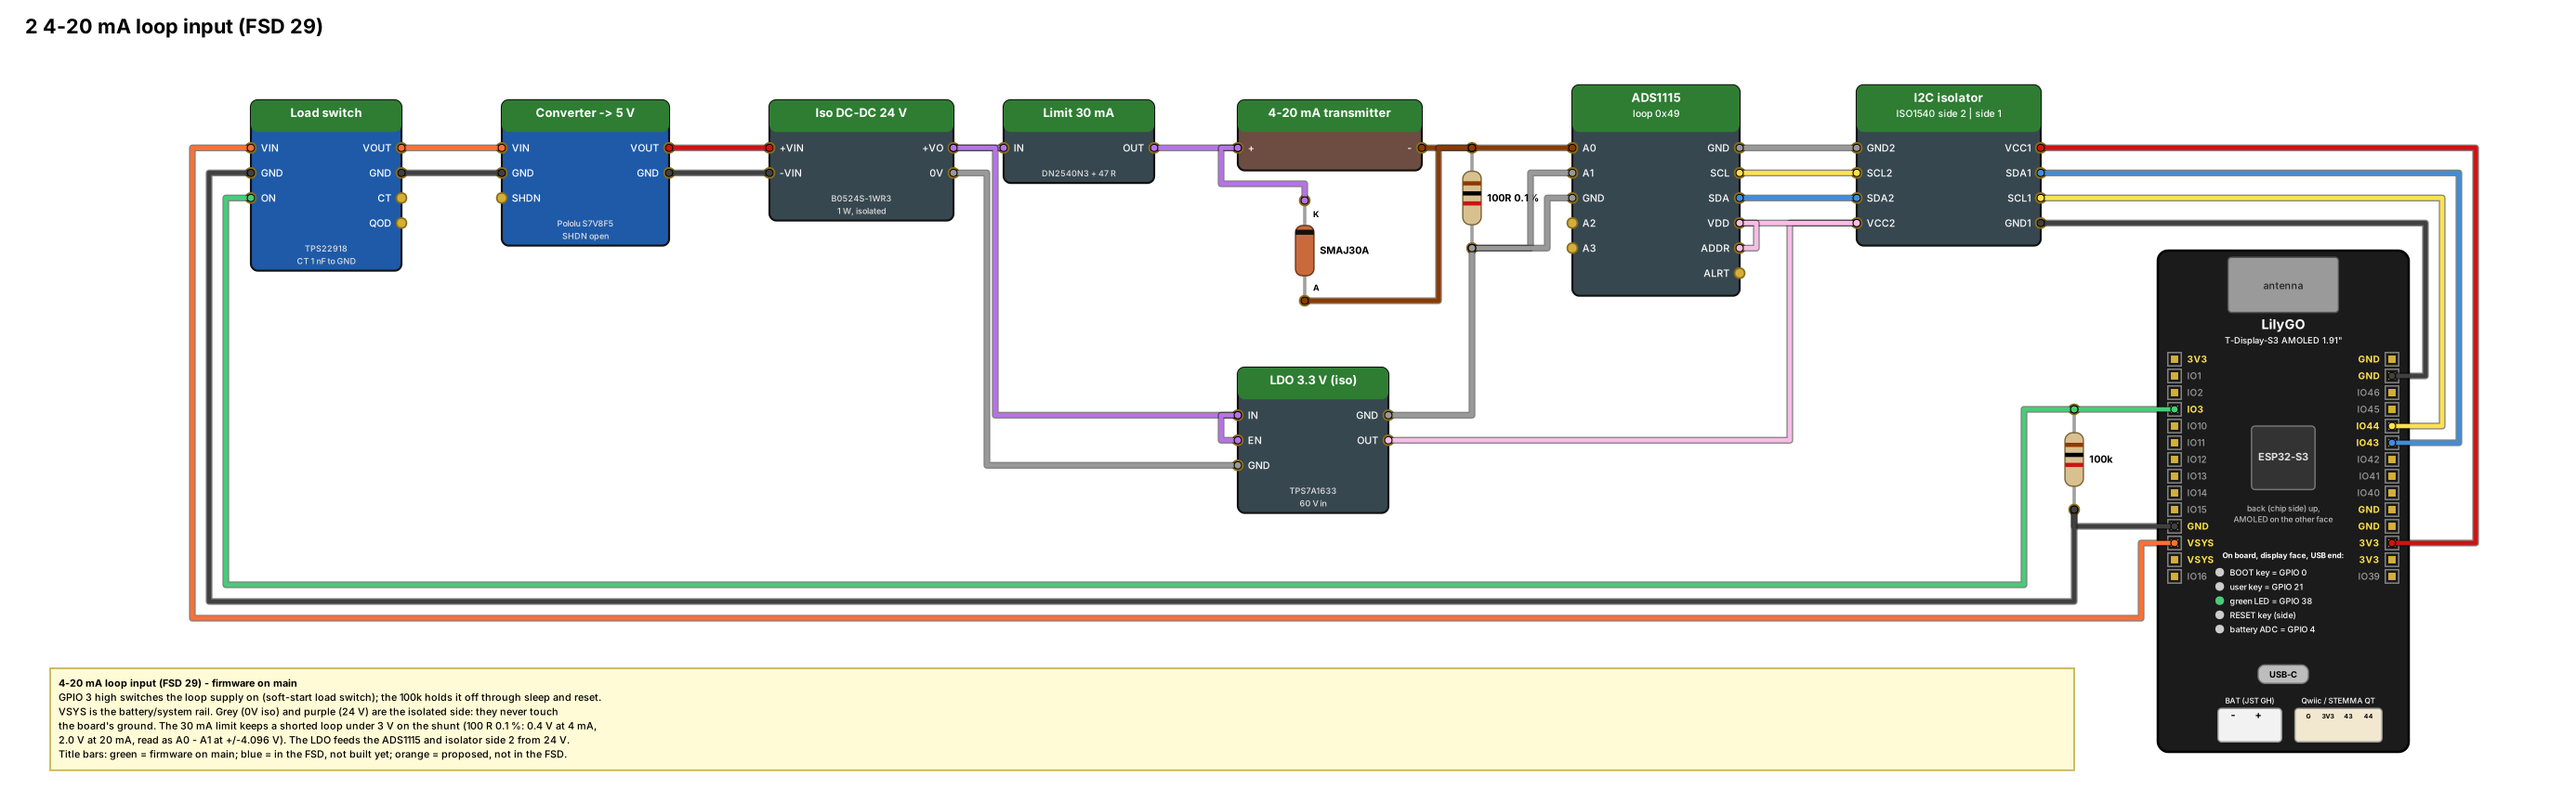
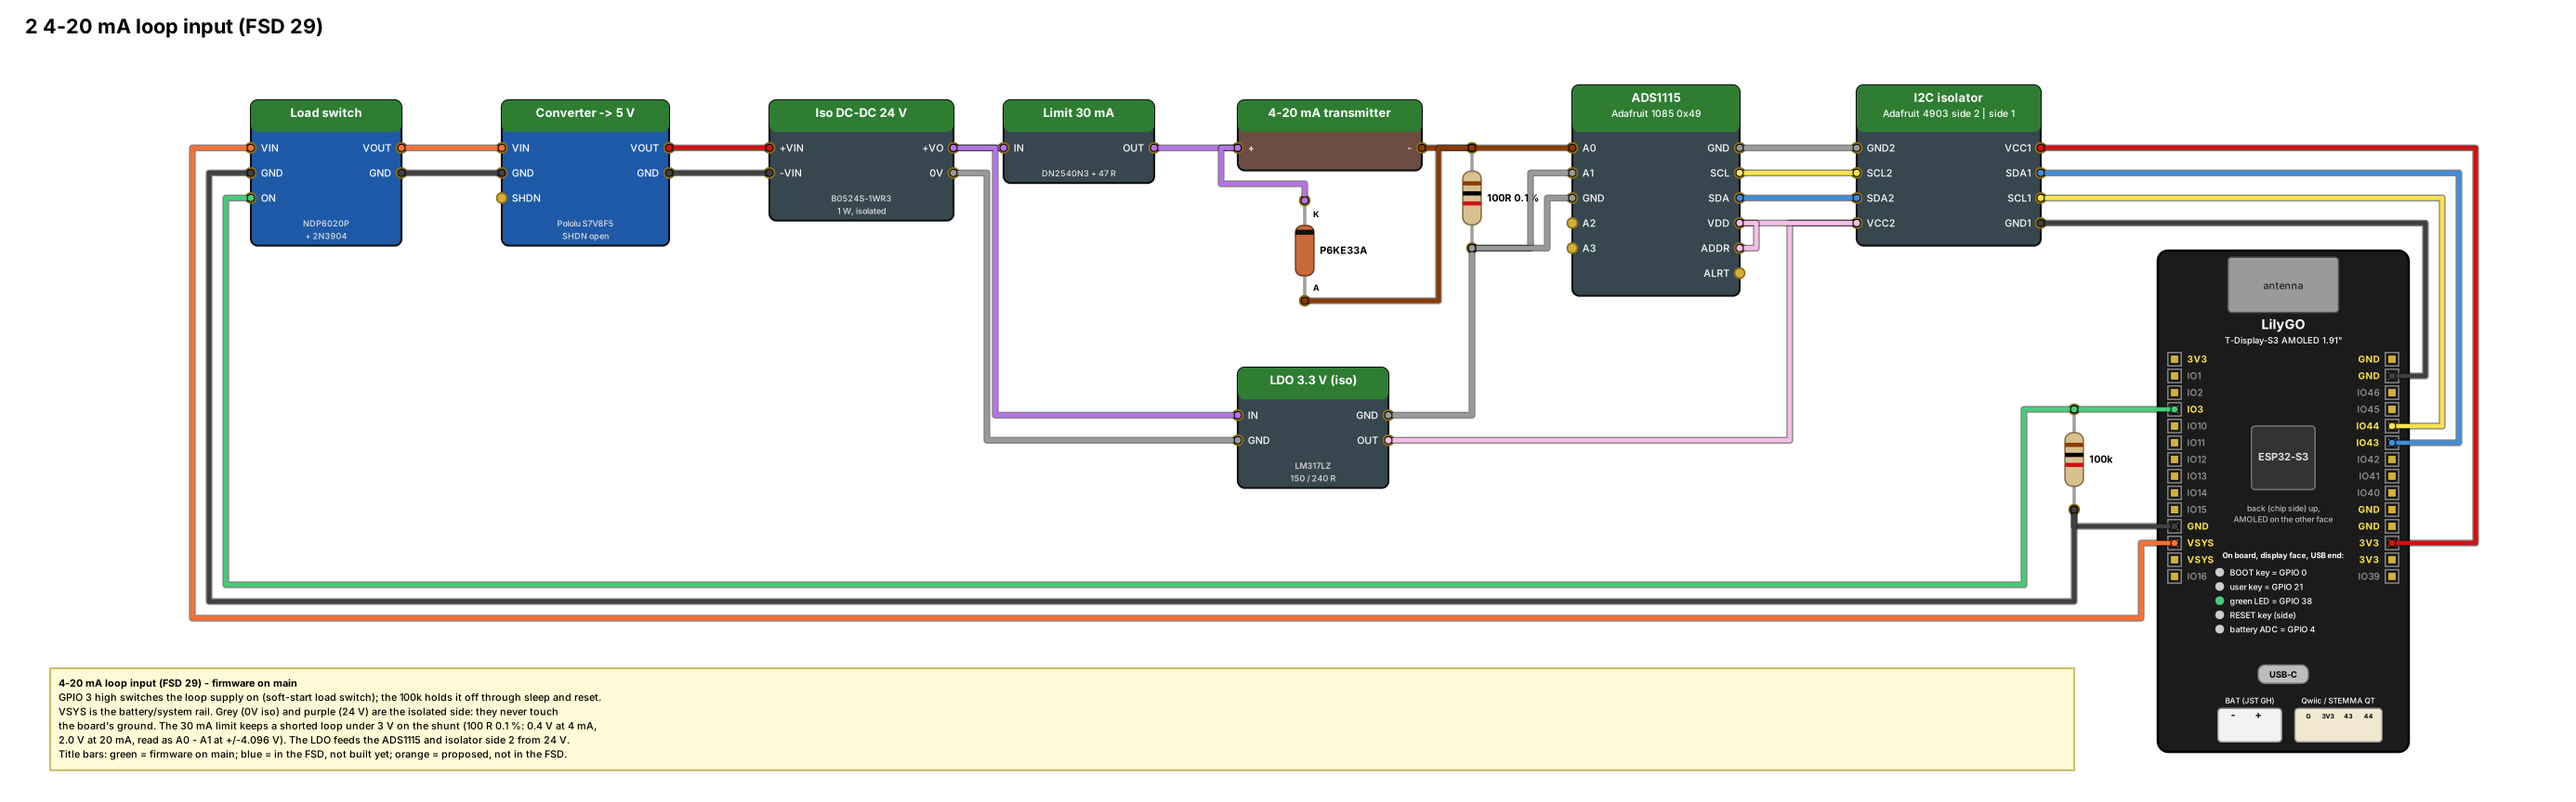
Wiring sheet 2: through-hole and breakout parts only
The load switch becomes an NDP6020P P-MOSFET (TO-220) driven by a 2N3904
with a gate RC for the soft start; the isolated 3.3 V an LM317LZ (TO-92, 40 V
in-out) whose divider meets its minimum load; the TVS a P6KE33A (DO-15); the
shunt a TE YR1B100RCC axial (0.1 %, 15 ppm); the ADS1115 and ISO1540 the
Adafruit 1085 and 4903 breakouts. wiring.md notes the isolator's side-1 supply
current, which flows in sleep too.

Claude-Session: https://claude.ai/code/session_014onQRh6NKh92hJzfipuaWj

diff --git a/docs/Method/project/wiring/make_wiring.py b/docs/Method/project/wiring/make_wiring.py
@@ -279,9 +279,9 @@ def build_parts(used):
     # 4-20 mA loop input, FSD section 29
     # Pin names are the suggested parts' own (wiring.md, "Sheet 2 parts").
     add(module_part("tds3a_load_switch", ["Load switch"], "built",
-                    left=["VIN", "GND", "ON"], right=["VOUT", "GND ", "CT", "QOD"], w=900,
-                    notes=["TPS22918", "CT 1 nF to GND"],
-                    desc="Load switch TPS22918 for the loop supply"))
+                    left=["VIN", "GND", "ON"], right=["VOUT", "GND "], w=900,
+                    notes=["NDP6020P", "+ 2N3904"],
+                    desc="Load switch for the loop supply: NDP6020P P-MOSFET driven by a 2N3904"))
     add(module_part("tds3a_wide_conv", ["Converter -> 5 V"], "built",
                     left=["VIN", "GND", "SHDN"], right=["VOUT", "GND "], w=1000,
                     notes=["Pololu S7V8F5", "SHDN open"],
@@ -291,23 +291,23 @@ def build_parts(used):
                     color="#37474f", notes=["B0524S-1WR3", "1 W, isolated"],
                     desc="Isolated 1 W DC-DC Mornsun B0524S-1WR3, 24 V out"))
     add(module_part("tds3a_iso_ldo", ["LDO 3.3 V (iso)"], "built",
-                    left=["IN", "EN", "GND"], right=["GND ", "OUT"], w=900, color="#37474f",
-                    notes=["TPS7A1633", "60 V in"],
-                    desc="LDO TPS7A1633 for the isolated side's 3.3 V"))
+                    left=["IN", "GND"], right=["GND ", "OUT"], w=900, color="#37474f",
+                    notes=["LM317LZ", "150 / 240 R"],
+                    desc="LM317LZ regulator for the isolated side's 3.3 V"))
     add(module_part("tds3a_loop_limit", ["Limit 30 mA"], "built",
                     left=["IN"], right=["OUT"], w=900, color="#37474f",
                     notes=["DN2540N3 + 47 R"],
                     desc="Loop current limit DN2540N3, about 30 mA"))
-    add(two_pin("tds3a_tvs_v", "diode", "SMAJ30A", True, "D", "TVS diode",
+    add(two_pin("tds3a_tvs_v", "diode", "P6KE33A", True, "D", "TVS diode",
                 pins=("K", "A")))
     add(module_part("tds3a_transmitter", ["4-20 mA transmitter"], "built",
                     left=["+"], right=["-"], w=1100, color="#6d4c41",
                     desc="2-wire 4-20 mA transmitter on the loop terminals"))
-    add(module_part("tds3a_ads1115_loop", ["ADS1115", "loop 0x49"], "built",
+    add(module_part("tds3a_ads1115_loop", ["ADS1115", "Adafruit 1085  0x49"], "built",
                     left=["A0", "A1", "GND", "A2", "A3"],
                     right=["GND ", "SCL", "SDA", "VDD", "ADDR", "ALRT"], w=1000,
                     color="#37474f", desc="ADS1115 for the 4-20 mA loop, address 0x49"))
-    add(module_part("tds3a_i2c_isolator", ["I2C isolator", "ISO1540  side 2 | side 1"], "built",
+    add(module_part("tds3a_i2c_isolator", ["I2C isolator", "Adafruit 4903  side 2 | side 1"], "built",
                     left=["GND2", "SCL2", "SDA2", "VCC2"],
                     right=["VCC1", "SDA1", "SCL1", "GND1"], w=1100, color="#37474f",
                     desc="I2C isolator, side 1 on the board's bus"))
@@ -729,7 +729,6 @@ def sheet_loop(S):
     S.wire(("U4", "+VO"), ("U9", "IN"), "purple")
     S.wire(("U9", "OUT"), ("U6", "+"), "purple")
     S.wire(("U4", "+VO"), ("U5", "IN"), "purple", ("x", 5950))
-    S.wire(("U5", "EN"), ("U5", "IN"), "purple", ("x", 7300))
     S.wire(("U4", "0V"), ("U5", "GND"), "grey", ("x", 5900))
     S.wire(("D1", "K"), ("U6", "+"), "purple", ("y", 1100), ("x", 7300))
     S.wire(("U6", "-"), ("R2", "1"), "brown")

diff --git a/docs/Method/project/wiring/wiring.md b/docs/Method/project/wiring/wiring.md
@@ -69,19 +69,27 @@ battery connector is a JST GH 1.25 mm.
 
 ## Sheet 2 parts
 
+Every part is through-hole or a breakout with 0.1" pins, so sheet 2 builds on
+a breadboard or perfboard.
+
 | Ref | Function (FSD §29.1) | Suggested part | Notes |
 |---|---|---|---|
-| U2 | Load switch with a controlled rise time | TI TPS22918 (1 – 5.5 V in, 2 A) | CT about 1 nF for the soft start; EN on GPIO 3 with R1 |
+| U2 | Load switch with a controlled rise time | onsemi NDP6020P P-MOSFET (TO-220, −20 V, V<sub>GS(th)</sub> −0.4 to −1 V) driven by a 2N3904 (TO-92) | Gate to VSYS through 100 kΩ and 47 nF in parallel; the 2N3904's collector pulls the gate low through 10 kΩ (about 0.5 ms rise); its base on GPIO 3 through 10 kΩ, R1 to GND |
 | U3 | Wide-input converter to 5 V | Pololu S7V8F5 (2.7 – 11.8 V in) | Leave SHDN open: its 100 k pull-up would fight R1, so U2 switches it |
-| U4 | Isolated 1 W DC-DC, 24 V | Mornsun B0524S-1WR3 (5 V in, 24 V at 4.2 – 42 mA, 1500 VDC) | Rated over 10 – 100 % load; the loop plus U5 and U8 keep it above 10 % |
-| U5 | Isolated 3.3 V LDO, at least 40 V in | TI TPS7A1633 (3 – 60 V in, 100 mA) | 1 µF/50 V in, 2.2 µF out |
-| U9 | Loop current limit, about 30 mA | Microchip DN2540N3 depletion MOSFET with a source resistor near 47 Ω | Trim the resistor on the bench so 21 mA passes untouched |
-| D1 | TVS across the terminals | SMAJ30A | K to the + terminal |
-| U7 | Loop ADC | ADS1115 (Adafruit 1085 or TI ADS1115IDGSR) | ADDR to VDD for 0x49 |
-| U8 | I2C isolator, floating while unpowered | TI ISO1540 | Side 1 on the board's 3V3, side 2 on U5 |
-| R2 | Shunt | 100 Ω, 0.1 %, 25 ppm/°C, 0805 | 40 mW at 20 mA |
-| R1 | Enable pull-down | 100 kΩ | |
-| C | Decoupling | 100 nF at U7 and at each side of U8; 10 µF at U3 out | |
+| U4 | Isolated 1 W DC-DC, 24 V | Mornsun B0524S-1WR3, SIP-4 (5 V in, 24 V at 4.2 – 42 mA, 1500 VDC) | Rated over 10 – 100 % load; U5's divider alone keeps it above 10 % |
+| U5 | Isolated 3.3 V regulator, at least 40 V across it | LM317LZ (TO-92, 40 V in – out) with 150 Ω (OUT – ADJ) and 240 Ω (ADJ – 0V iso), 1 %, for 3.25 V | The divider's 8 mA meets the LM317L's 10 mA minimum load with U7 and U8; about 0.25 W in the TO-92. 0.1 µF in, 1 µF out |
+| U9 | Loop current limit, about 30 mA | Microchip DN2540N3 depletion MOSFET (TO-92) with a source resistor near 47 Ω | Trim the resistor on the bench so 21 mA passes untouched |
+| D1 | TVS across the terminals | P6KE33A (DO-15, 28.2 V stand-off) | K to the + terminal |
+| U7 | Loop ADC | Adafruit 1085 ADS1115 breakout | ADDR to VDD for 0x49 |
+| U8 | I2C isolator, floating while unpowered | Adafruit 4903 ISO1540 breakout | Side 1 on the board's 3V3, side 2 on U5; 10 kΩ pull-ups on each side to that side's VCC |
+| R2 | Shunt | TE YR1B100RCC, 100 Ω, 0.1 %, 15 ppm/°C, 0.25 W axial | 40 mW at 20 mA |
+| R1 | Enable pull-down | 100 kΩ axial | |
+| C | Decoupling | 100 nF ceramic at U7 and at each side of U8; 10 µF electrolytic at U3 out | Radial, 0.1" pitch |
+| J1 | Transmitter terminal | 2-pin screw terminal, 5.08 mm | |
 
-A 2-pin 5.08 mm screw terminal takes the transmitter. With the limiter (about
-3 V) and the shunt (2.1 V at 21 mA), about 19 V is left for the transmitter.
+With the limiter (about 3 V) and the shunt (2.1 V at 21 mA), about 19 V is
+left for the transmitter. On the 24 V side, a shorted loop (30 mA) plus U5
+(about 11 mA) stays within U4's 42 mA.
+
+U8's side 1 draws about 3 mA (ISO1540 I<sub>CC1</sub>) whenever the board's 3V3 is
+on, sleep included, plus its power LED.
